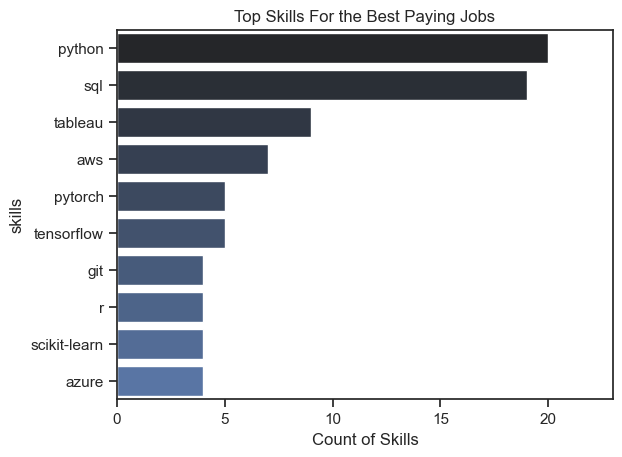
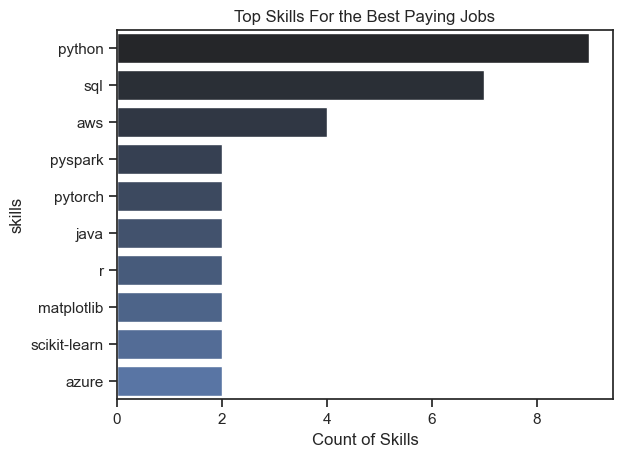
project sql

diff --git a/README.md b/README.md
@@ -66,8 +66,49 @@ Insights for the data science jobs in 2023:
 ![Top_paying_jobs](Charts/Top_paying_jobs.png)
 Bar chart visualising the top paying Data Scientist jobs ; This graph was created using Python and the associated libraries(Pandas,Seaborn)
 
-2. Skills for the top paying jobs 
+## 2. Skills for the top paying jobs for Data Scientists
+Before we dive into the top skills in general, i queried the skills and job posting tables to find out what skills are required for the top jobs presented above.
+
+```sql
+-- Create a CTE that contains only the data from the countries in the European Union
+WITH EU_jobs AS(
+    SELECT *
+    FROM job_postings_fact
+    WHERE 
+    job_country IN ('Austria', 'Belgium', 'Bulgaria', 'Croatia', 'Cyprus', 'Czech Republic', 'Denmark', 
+                    'Estonia', 'Finland', 'France', 'Germany', 'Greece', 'Hungary', 'Ireland', 'Italy', 
+                    'Latvia', 'Lithuania', 'Luxembourg', 'Malta', 'Netherlands', 'Poland', 'Portugal', 
+                    'Romania', 'Slovakia', 'Slovenia', 'Spain', 'Sweden')
+)
+
+-- Find the top 5 skills for the best paying job postings in the european union
+SELECT
+    sd.skills,
+    COUNT(sd.skills) AS skills_count
+FROM (SELECT
+    job_id,
+    job_title,
+    cd.name AS company_name,
+    job_country,
+    salary_year_avg
+FROM    
+    EU_jobs LEFT JOIN company_dim cd ON
+    EU_jobs.company_id = cd.company_id
+WHERE   
+    salary_year_avg IS NOT NULL AND
+    job_title_short = 'Data Scientist'
+ORDER BY    
+    salary_year_avg DESC
+LIMIT 10) AS top_30 INNER JOIN skills_job_dim sjd ON 
+        top_30.job_id = sjd.job_id INNER JOIN skills_dim sd ON
+        sjd.skill_id = sd.skill_id
+GROUP BY
+    sd.skills
+ORDER BY
+    skills_count DESC
+```
 
 
+![Best_job_skills](Charts\Top_paying_jobs_skill.png)
 
 	
